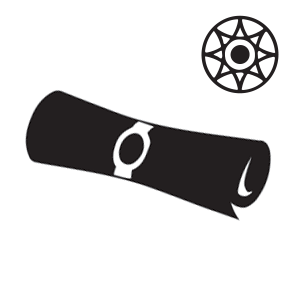
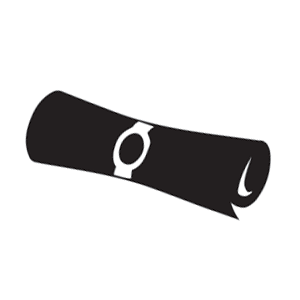
promote Bear fix and refreshed artwork

Changed region(s): [[0.66, 0.03, 0.93, 0.33]]

diff --git a/js/game.js b/js/game.js
@@ -183,7 +183,7 @@ const ITEM_MASTER=[
  {name:'Tornado',copies:1,type:'spell',icon:'↻',desc:'1 use, 1 AP: move away from current monster without losing HP.',use:'tornado'},
  {name:'Morning Star',copies:1,type:'equipment',slot:'weapon',icon:'✹',desc:'+2 combat roll.'},
  {name:'Dragonlance',copies:1,type:'equipment',slot:'dragonlance',icon:'♜',desc:'One-handed. +1 combat die against the Red Dragon only.',apply:p=>{p.equipment.dragonlance={name:'Dragonlance',icon:'♜'};}},
- {name:'Loyal Bear',copies:1,type:'equipment',slot:'bear',icon:'🐻',desc:'+1 combat die until defeated. Takes no inventory space.',apply:p=>{p.equipment.bear={name:'Loyal Bear',icon:'🐻'};}},
+ {name:'Loyal Bear',copies:1,type:'equipment',slot:'bear',icon:'🐻',desc:'+1 combat die until game over. Takes no inventory space.',apply:p=>{p.equipment.bear={name:'Loyal Bear',icon:'🐻'};}},
  {name:'Magic Vine',copies:1,type:'spell',icon:'♧',desc:'1 use, 1 AP: 1 dice damage and monster skips its next attack.',use:'vine'}
 ];
 
@@ -756,7 +756,7 @@ function createTileDeck(){
 function showTesterWarning(){
  showModal('A WARNING FROM THE DUNGEON','',[{text:'Begin your quest…',cls:'green',fn:closeModal}]);
  const body=document.getElementById('modalBody');
- if(body)body.innerHTML=`<div class="testerWarningScroll"><div style="font-size:28px;font-weight:700;margin-bottom:28px;">A WARNING FROM THE DUNGEON</div>You have <b>ONE LIFE!</b> If your hero falls, the dungeon claims you and the game ends.<br><br>Your quest: Get in, get the Ring, and try to get out alive.<br><br><span style="color:#B4201A;font-weight:bold;">TIP: The Ring may be hidden on one of the many large monsters that dwell in this dungeon.<br>BEWARE! The Red Dragon waits patiently for you at the Exit.</span><br><br>Good luck, brave adventurer. You’ll need it.</div>`;
+ if(body)body.innerHTML=`<div class="testerWarningScroll"><div style="font-size:28px;font-weight:700;margin-bottom:28px;">A WARNING FROM THE DUNGEON</div>You have <b>ONE LIFE!</b> If your hero falls, the dungeon claims you and the game ends.<br><br>Your quest: Get in, get the Ring, and try to get out alive.<br><br><span style="color:#B4201A;font-weight:bold;">TIP: The Ring may be hidden on one of the many large monsters that dwell in this dungeon.<br>BEWARE! The Red Dragon waits patiently for you at the Exit.</span><br>Good luck, brave adventurer. You’ll need it.</div>`;
 }
 function newGame(charDef=CHARACTERS[0]){document.getElementById('log').innerHTML='';pan={x:0,y:0,scale:1};view3d={enabled:true};if(window.BOD3D)window.BOD3D.resetHeroFacing();state={charDef,tiles:{},tileDeck:createTileDeck(),monsterDeck:expanded(MONSTER_MASTER),itemDeck:expanded(ITEM_MASTER),tileDiscard:[],monsterDiscard:[],itemDiscard:[],exitPlaced:false,ringActivated:false,ringKey:null,ringNumber:null,ringRoll:null,turns:1,startedAt:Date.now(),player:{x:0,y:0,prevX:0,prevY:0,facing:'S',maxHealth:charDef.maxHealth,health:charDef.maxHealth,maxAp:charDef.maxAp,ap:charDef.maxAp,baseDice:charDef.baseDice,baseMod:charDef.baseMod,lives:1,hasRing:false,equipment:{},slots:{left:null,right:null,armour:null,boots:null,cloak:null},backpack:[],companionBear:null,companionFirkin:null,inventory:[],flags:{special:charDef.special,usedSpecial:false,renewCharges:3,bootsBonus:false,torchFreeLay:false},temp:{},killed:[]},gameOver:false};state.tiles['0,0']={kind:'start',opens:{...TILE_BASE.start},rot:0,visited:true};log(charDef.name+' enters the dungeon.','system');log('Welcome to Bag of Dungeon 3D '+VERSION+'.','system');render();setTimeout(()=>{setOpeningCamera();showTesterWarning();},0);}
 

diff --git a/js/combat.js b/js/combat.js
@@ -544,7 +544,7 @@ function resolveFightRound(){
  const deadeye=p.special==='Dead-eye'&&pr.rolls.includes(6);
  if(deadeye){damageToMonster=Math.max(0,m.health);m.health=0;text+='Dead-eye! Instant kill.';}
  else if(pt>mt){let dmg=pt-mt;damageToMonster=dmg;m.health-=dmg;text+='You hit for '+dmg+'.';}
- else if(mt>pt){if(combat.monsterSkip){combat.monsterSkip=false;text+=m.name+' is held and misses.';}else{let dmg=Math.max(0,mt-pt-pDamageReduction());damageToHero=dmg;p.health-=dmg;text+=m.name+' hits for '+dmg+'.';if(dmg>0&&p.equipment.bear){text+=' Loyal Bear is defeated protecting you.';if(p.companionBear)state.itemDiscard.push(p.companionBear);p.companionBear=null;syncEquipment();}}}
+ else if(mt>pt){if(combat.monsterSkip){combat.monsterSkip=false;text+=m.name+' is held and misses.';}else{let dmg=Math.max(0,mt-pt-pDamageReduction());damageToHero=dmg;p.health-=dmg;text+=m.name+' hits for '+dmg+'.';}}
  else{text+='Both miss.';}
  combat.rolling=false;
  combat.mustFightRound=false;
